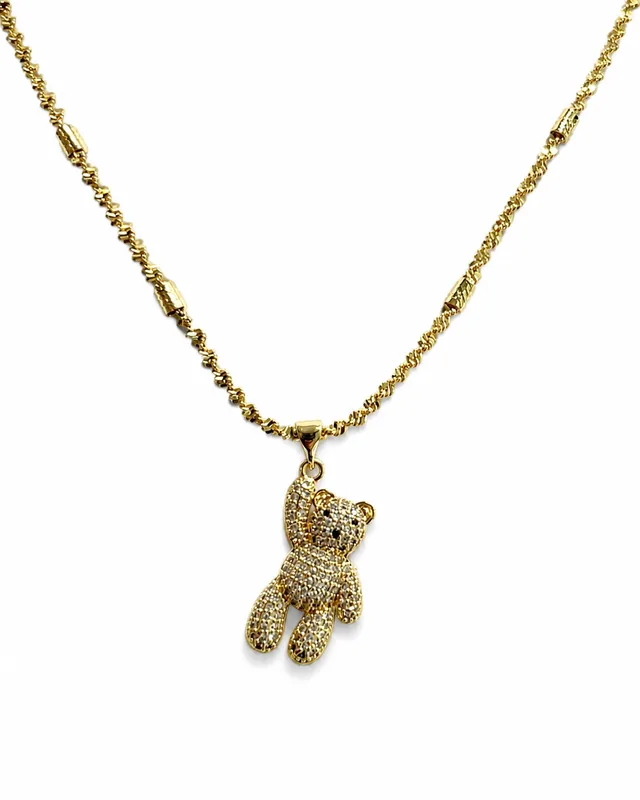
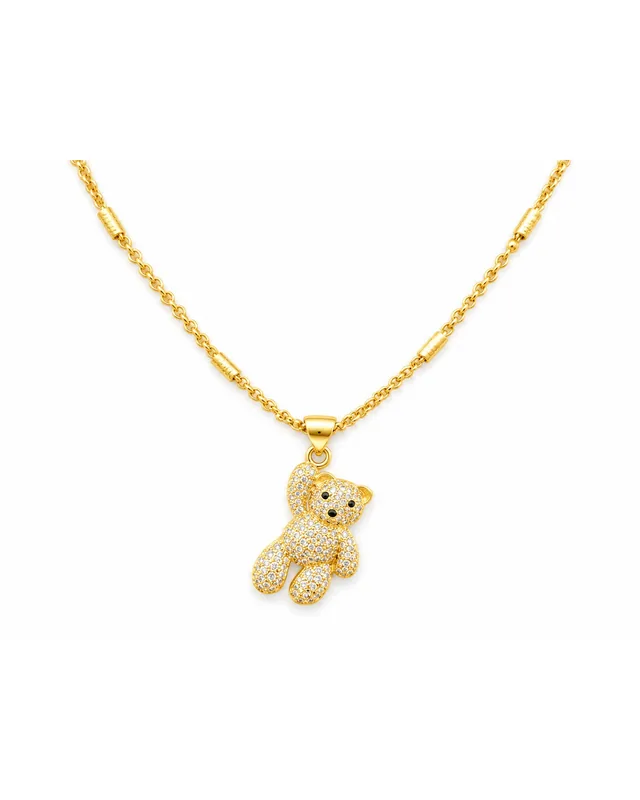
Reemplazo foto PU085 y CO013
Claude-Session: https://claude.ai/code/session_01LSAb27e8CDyU5GVf1hUJ6Z

Changed region(s): [[0.0, 0.0, 1.0, 0.8438]]

diff --git a/index.html b/index.html
@@ -223,7 +223,7 @@ header{border-bottom:1px solid rgba(255,255,255,.6)}
 
 <script>
 const DATA=[["AN001","Anillo Eslabones Ovales con Circones","AN",5000,6000,9500,1],["AN002","Anillo Triple Banda Entrelazada con Circones","AN",5000,7500,10500,1],["AN003","Anillo Ondas Entrelazadas con Circones","AN",5000,6500,8000,1],["AN004","Anillo Domo Acanalado","AN",5000,8000,12000,1],["AN005","Anillo Eslabones Anchos con Circones","AN",5000,6500,8000,1],["AN006","Anillo Clavo Tipo Cartier con Circones","AN",5000,6500,8000,1],["AN007","Anillo Doble Gota Orgánica","AN",5500,8500,12000,1],["AN008","Anillo Media Alianza con Circones","AN",6000,7500,10000,1],["AN009","Anillo Cuadrado Central con Circones","AN",5500,8500,12500,1],["AN010","Anillo Osito con Circones","AN",6000,7500,10000,1],["AN011","Anillo Domo con Bandas de Circones","AN",6000,7500,10000,1],["AN012","Anillo Clavo Doble con Circones","AN",6000,7500,10000,1],["AN013","Anillo Corona Dorada","AN",4500,5500,7000,1],["AN014","Anillo Corona Dorada Pequeña","AN",4500,5500,7000,0],["AN015","Anillo Media Alianza Doble con Circones","AN",6500,7500,10000,1],["AN016","Anillo Alianza Doble Borde con Circones","AN",6500,9000,13000,1],["AN017","Anillo Media Alianza Multilínea con Circones","AN",7500,9000,12000,1],["AN018","Anillo Eslabón Oval con Circones","AN",7500,9000,12000,1],["AN019","Anillo Cruces y Circones","AN",7500,10500,14500,1],["AN020","Anillo Domo Pavé con Circones","AN",7500,9000,12000,0],["AN021","Anillo Alianza Central con Circones","AN",7500,11500,15500,1],["AN022","Anillo Bandas Verticales","AN",7500,9000,12000,1],["AN023","Anillo Clavo Plateado con Circones","AN",7500,9000,12000,1],["AN024","Anillo Ondas Cruzadas","AN",7500,9000,12000,1],["AN025","Anillo Flor con Circones","AN",5500,7000,10000,1],["AN026","Anillo Doble con Estrella Colgante","AN",5500,7000,10000,1],["AN027","Anillo Ramas y Hojas con Circones","AN",7500,0,0,1],["AN028","Anillo Barra Pavé con Circones","AN",5500,0,0,1],["AN029","Anillo Corazón Volumen","AN",5000,6000,8000,1],["AN030","Anillo Hojas Cruzadas","AN",5500,0,0,1],["AN031","Anillo Cinta Ondulada","AN",5500,8500,12000,1],["AN032","Anillo Mariposa Dorada","AN",5500,6500,9000,1],["AN033","Anillo Domo Tejido con Circones","AN",6000,0,0,1],["AN034","Anillo Corazón Pavé con Circones","AN",6000,8500,12500,1],["AN035","Anillo Doble Banda Calada con Circones","AN",6000,0,0,1],["AN036","Anillo Domo Pavé Multifila","AN",6000,0,0,1],["AN037","Anillo Doble Punta con Circones","AN",6000,9500,13000,1],["AN038","Anillo Serpiente con Circones","AN",6000,0,0,1],["AN039","Anillo Doble Pluma con Circones","AN",6000,0,0,1],["AN040","Anillo Domo Multifila con Circones","AN",6500,10500,15000,1],["AN043","Anillo Hoja Calada","AN",7000,0,0,1],["AN044","Anillo Alianza Circones Multicolor","AN",5000,0,0,1],["AN045","Anillo Alianza Circones Rosados","AN",5000,0,0,1],["AN046","Anillo Alianza Circones Rosa y Lila","AN",5000,0,0,1],["AN047","Anillo Ondas Caladas","AN",5000,0,0,1],["AN048","Anillo Domo Acanalado con Circones","AN",5000,7500,10500,1],["AN049","Anillo Doble Óvalo Orgánico","AN",5500,0,0,1],["AN050","Anillo Infinito con Circones","AN",5000,0,0,1],["AN051","Anillo Cruz con Circones","AN",5500,6500,9000,0],["AN052","Anillo Estrella de Mar y Perla","AN",6000,9000,13000,1],["AN053","Anillo Corazón Pavé","AN",6500,0,0,1],["AN054","Anillo Clavo Curvo con Circones","AN",6500,0,0,1],["AN055","Anillo Hojas Dobles con Circones","AN",5500,7000,10000,1],["AN056","Anillo Circon Central Verde","AN",5000,0,0,1],["AN057","Anillo Alianza Circones Transparentes","AN",5000,0,0,1],["AN058","","AN",4000,7500,12000,1],["AN059","","AN",4500,7500,12000,0],["AN060","","AN",5000,7000,10000,0],["AN061","","AN",5000,7000,10000,1],["AN062","","AN",5000,7000,10000,1],["AN063","","AN",5000,7000,10000,1],["AN064","Anillo Flor","AN",5000,8000,12000,1],["AN065","","AN",5500,8500,12500,0],["AN066","","AN",7000,10500,15000,1],["AN067","","AN",5000,7500,10500,1],["AN071","","AN",5500,7500,10500,1],["AN073","Anillo Gucci Plano","AN",5500,8000,10000,0],["AR001","Argollas Tipo Cartier Clavo","AR",5500,7500,10500,1],["AR002","Aros Corazón Dorado","AR",5500,7000,10000,1],["AR003","Aros Gota Alargada","AR",7500,9000,15000,1],["AR004","Aros Gota Alargada Bicolor","AR",7500,8500,12000,1],["AR005","Aros Bola Dorada","AR",7500,8500,12000,1],["AR006","Aros Corazón Rosado","AR",7500,8500,12000,1],["AR007","Aros Corazón Rojo Metálico","AR",7500,8500,12000,1],["AR008","Aros Argolla Circones Multicolor","AR",5500,7500,12000,1],["AR009","Aros Sol con Perla","AR",5000,6000,7500,1],["AR010","Aros Nudo Acanalado","AR",5500,7000,8500,1],["AR011","Aros Bola Texturada","AR",4000,5000,6500,1],["AR012","Aros Cuadrados Tejidos","AR",4000,8500,12500,1],["AR013","Aros Corazón Texturado","AR",5500,8500,12500,1],["AR014","Aros Gota Volumen","AR",5000,6500,10000,1],["AR015","Aros Corazón Pequeño","AR",4000,6000,7000,1],["AR016","Aros Corazón Mediano","AR",4500,6500,7500,1],["AR017","Aros Corazón Estilizado","AR",4500,6500,8000,1],["AR018","Aros Bola Texturada con Circones","AR",4500,6500,7500,1],["AR019","Aros Argolla Sol con Circones","AR",4500,7500,10500,0],["AR020","Aros Argolla Bicolor con Circones","AR",4000,5000,6000,1],["AR021","Aros Argolla Torcida","AR",5000,6500,10000,1],["AR022","Aros Argolla Texturada","AR",6500,8000,10000,0],["AR023","Aros Argolla Calada con Circones","AR",4000,5000,7000,1],["AR024","Argollas Tipo Cartier","AR",4000,5000,7000,1],["AR025","Aros Nudo Dorado","AR",5500,7000,9000,1],["AR026","Aros Mini Argolla Cuadrada","AR",5500,7000,9000,1],["AR027","Aros Mini Argolla Bicolor","AR",5500,7000,9000,1],["AR028","Aros Corazón Pavé Cuadrado","AR",7500,9000,12000,1],["AR029","Aros Mini Sol con Circones","AR",4500,6500,10000,0],["AR030","Aros Argolla Circones Rosados","AR",4000,5000,8000,1],["AR031","Aros Corazón con Circones","AR",3500,5500,10000,1],["AR032","Aros Argolla Ancha Lisa","AR",5500,7500,12000,1],["AR033","Aros Argolla Acanalada","AR",6000,0,0,1],["AR034","Aros Flor con Circones","AR",7000,8500,11000,1],["AR035","Aros Flor Rosada Colgante","AR",6600,0,0,0],["AR036","Aros Mini Argolla Lisa","AR",4500,7500,11500,0],["AR037","Aros Argolla Óvalo Calado","AR",4000,0,0,1],["AR038","Aros Argolla Tornillo","AR",4500,0,0,1],["AR039","Aros Espiga Doble","AR",5500,8500,12500,1],["AR040","Aros Osito","AR",5000,0,0,1],["AR041","Aros Argolla Circones Rosa y Azul","AR",4500,0,0,1],["AR042","Aros Argolla Texturada Mediana","AR",4500,7500,12000,0],["AR043","Aros Argolla Texturada Grande","AR",4500,0,0,1],["AR044","Aros Argolla Doble Fina","AR",5000,8500,12000,1],["AR045","Aros Argolla Multicolor Pequeña","AR",5800,8800,12800,1],["AR046","Aros Argolla Multicolor Mediana","AR",5800,8500,12000,1],["AR047","Aros Argolla Gota y Bola","AR",6000,8500,12000,1],["AR048","Aros Colgantes Perlas en Racimo","AR",4500,6000,10000,1],["AR049","Aros Cerezas Rojas Dobles","AR",4500,0,0,1],["AR050","Aros Argolla Doble Aro","AR",4500,0,0,1],["AR051","Aros Argolla Doble Aro Grande","AR",5500,0,0,1],["AR052","Aros Lazo Dorado","AR",4600,0,0,1],["AR053","Aros Corazón Negro","AR",4500,0,0,1],["AR054","Aros Argolla Gucci Plano","AR",5500,7500,10000,1],["AR055","Aros Elefante","AR",4000,5500,6500,1],["AR056","Aros Disco Redondo","AR",4000,0,0,1],["AR057","Aros Cuadrado Liso","AR",4000,0,0,1],["AR058","Aros Cerezas Rojas","AR",5000,6500,8000,1],["AR059","Aros Óvalo con Perla","AR",6300,7500,10000,1],["AR060","Aros Gota Plegada","AR",6000,8000,12000,1],["AR061","Aros Argolla Triple Lisa","AR",6800,7500,12000,1],["AR062","Aros Flor Pavé","AR",6600,0,0,1],["AR063","Aros Cerezas Largos","AR",5000,6500,9500,1],["AR064","Aros Cerezas Largos Finos","AR",5000,0,0,1],["AR065","Aros Argolla Multicolor","AR",5000,7500,12000,1],["AR066","Aros Corazón Nacarado","AR",5500,7500,10000,1],["AR067","Aros Flor Rosa","AR",5500,0,0,1],["AR068","Aros Argolla Multicolor Fina","AR",5500,7500,12000,0],["AR069","Aros Argolla Bolas Doradas","AR",6000,0,0,1],["AR070","Aros Argolla Bolas Doradas Medianas","AR",6000,0,0,1],["AR071","Aros Punto Gucci Peq.","AR",3000,5000,9000,1],["AR072","Aros Punto Gucci Med.","AR",4000,6000,10000,1],["AR073","Aros Argolla Bolitas","AR",6500,7500,13000,1],["AR074","Aros Argolla Corazones Calados","AR",4500,6500,10000,1],["AR075","","AR",4000,6000,10000,1],["AR076","","AR",4500,7500,12000,1],["AR077","Aros Corazón Dorado Pequeño","AR",5000,8000,12000,0],["AR078","","AR",4500,7500,12000,1],["AR080","","AR",4500,7500,12000,1],["AR081","","AR",4500,7500,12000,1],["AR082","","AR",4500,7500,12000,1],["AR083","","AR",4500,7500,12000,1],["AR084","","AR",4500,7500,12000,1],["AR085","","AR",4500,7500,12000,1],["AR086","","AR",5500,8500,13000,1],["AR087","","AR",4500,7500,12000,1],["AR088","","AR",4500,7500,12000,1],["AR089","","AR",5500,8500,13000,1],["AR090","","AR",5500,8500,13000,1],["AR092","","AR",5500,8500,13000,0],["AR093","","AR",5500,8500,13000,1],["AR095","","AR",4500,7500,12000,1],["AR096","","AR",4500,7500,12000,1],["AR108","Aros Argollas con Circones","AR",4500,6500,10000,1],["AR109","Aros Flor 3 Colores","AR",4500,6500,10000,1],["AR110","Aros Argollas Peq. con Circones","AR",4000,6000,8000,0],["AR111","Aros Corazon Rojo","AR",4500,6500,10000,1],["AR112","Aros con Perlas y Circones","AR",4500,6500,10000,0],["AR113","Aros Redondos con Circones","AR",4500,6500,10000,1],["AR114","Argollas Peq.","AR",4000,6000,8000,0],["AR115","Aros Balin 8mm Facetado","AR",4000,6000,10000,1],["AR116","Argollas Peq. con Circones 16mm","AR",4000,8000,10000,0],["CO001","Collar Corazón Volumen","CO",5500,9000,14000,1],["CO002","Collar Corazón Estilizado","CO",5500,7500,15000,1],["CO003","Collar Ají Rojo","CO",5500,8000,15000,1],["CO004","Collar Corazón Liso","CO",5500,7500,12000,1],["CO005","Collar Corazón Rojo","CO",7500,9000,13000,1],["CO006","Collar Cadena Corazones Calados","CO",7500,9000,13000,0],["CO007","Collar Cruz Clavo","CO",7500,8500,14000,1],["CO008","Collar Punto de Luz Rojo","CO",8000,9000,14000,1],["CO009","Collar Cruz Lisa","CO",8000,9000,14000,1],["CO010","Collar Cruz con Circones","CO",8000,9000,14000,1],["CO011","Collar Cerezas y Osito","CO",8000,9000,14000,1],["CO012","Collar Osito con Circones","CO",8500,9500,15000,1],["CO013","Collar Osito Dorado","CO",8500,13000,20000,1],["CO014","Collar Osito con Circones Azules","CO",8500,9500,15000,1],["CO015","Collar Flor y Aro","CO",10000,12000,18000,1],["CO016","Collar Cadena Eslabón Fino","CO",6500,7500,9000,1],["CO017","Collar Perlas con Dije Central","CO",5500,9000,15000,1],["CO018","Collar Perlas y Gota Nacarada","CO",5500,7500,12000,1],["CO019","Collar Cadena Corazones Negros","CO",6500,7500,14000,1],["CO020","Collar Charms Multicolor","CO",6500,10000,13500,1],["CO021","Collar Cadena Bolitas Doradas","CO",9000,11000,20000,1],["CO022","Collar Love con Perlas","CO",11000,13000,16000,1],["CO023","Collar Caracola","CO",13000,15000,20000,1],["CO024","Collar Cadena Tejido Chino 45cm + Extensor","CO",5000,7500,9000,1],["CO025","Collar Cruz Delgada","CO",5500,7500,15000,1],["CO026","Collar Cruz Rústica","CO",5500,7500,12000,1],["CO027","Collar Cerezas Rojas","CO",5500,7500,12000,1],["CO028","Collar Dije Niña","CO",7000,9000,15000,1],["CO029","Collar Dije Niño","CO",7000,9000,11000,1],["CO030","Collar Osito Pavé","CO",7000,9000,11000,1],["CO031","Collar Corazón Azul","CO",8000,9000,14000,1],["CO032","Collar Corazón Negro","CO",8000,9000,14000,1],["CO033","Collar Medalla Dr. José Gregorio Hernández","CO",6500,8500,16000,1],["CO034","Collar Mariposa","CO",8000,10000,14000,1],["CO035","Collar Cruz Rústica Grande","CO",9000,10000,14000,1],["CO036","Collar Flor Pavé","CO",11000,17000,25000,1],["CO037","Collar Corazón y Círculo Pavé","CO",11000,14000,20000,1],["CO038","Collar Corazón Liso Grande","CO",12000,15000,20000,0],["CO039","Collar Corazón Rojo Punto de Luz","CO",5500,7500,15000,1],["CO040","Collar Corazón Multicolor","CO",5500,7500,12000,1],["CO041","Collar Gota Verde y Perla","CO",5500,7500,12000,1],["CO042","Collar Conejo con Circones","CO",6500,8000,12000,1],["CO043","Collar Perla Colgante","CO",9000,11000,15000,1],["CO044","Collar Cadena Plana en V","CO",6500,7500,9000,1],["CO045","Collar Cadena Plana Curva","CO",6500,7500,9000,1],["CO046","Collar Osito Dorado Grande","CO",7500,9000,11000,1],["CO047","Collar Ojo Turco con Circones","CO",5500,10500,15000,1],["CO048","Collar Ají Rojo Largo","CO",5500,7500,15000,1],["CO049","Collar Llave con Corazón Rojo","CO",5500,7500,15000,1],["CO050","Collar Corazón Rojo Esmaltado","CO",5500,7500,15000,1],["CO051","Collar Fe","CO",5500,7500,15000,0],["CO053","Collar Candado y Llave","CO",6500,8500,16000,0],["CO056","Collar Cactus Multicolor","CO",8500,12000,16000,1],["CO057","Collar Langosta Roja","CO",8500,12000,16000,1],["CO058","Collar Corazón Rojo con Corona","CO",5500,7500,12000,1],["CO059","Collar Corazón Rojo con Lazo","CO",5500,7500,12000,1],["CO060","Collar Corazón Rojo con Alas","CO",5500,8500,15000,1],["CO061","Collar Corazón Rojo Pavé","CO",5500,7500,12000,1],["CO062","Collar Corazón Rojo Flecha","CO",5500,7500,12000,1],["CO063","Collar Cadena Eslabón con Corazón","CO",6500,7500,10000,1],["CO064","Collar Cerezas con Circones","CO",5500,7500,12000,1],["CO065","Collar Cerezas y Perla","CO",5500,7500,12000,1],["CO066","Collar Virgen con Circones","CO",7500,9000,13000,1],["CO067","Collar Rosario Virgen y Cruz","CO",11500,14000,18000,1],["CO068","Collar Perlas con Bolas Doradas","CO",11500,14000,20000,1],["CO069","Collar Corazón Rosado y Perlas","CO",11500,14000,20000,1],["CO070","Collar Corazón Rojo Doble","CO",11500,14000,20000,1],["CO071","Collar Charms Estrellas","CO",14500,18000,25000,1],["CO072","Collar Corazón Rojo y Cerezas","CO",14500,18000,25000,1],["CO073","Collar Charms Corazones Rojos","CO",20000,25000,35000,1],["CO075","Collar Cadena Eslabones Rectangulares","CO",6500,7500,10000,1],["CO076","Collar Cadena Tejido Diamante","CO",6500,10000,15000,1],["CO077","Collar Cadena Cubana Fina","CO",6500,7500,10000,1],["CO078","Collar Osito Pavé Grande","CO",7500,8500,14000,1],["CO079","Collar Osito Pavé Mediano","CO",7500,8500,14000,1],["CO080","Collar Flor Rosada con Flecha","CO",5500,7500,15000,1],["CO081","Collar Osito Dorado con Circones","CO",7500,8500,14000,1],["CO082","Collar Flor Rosa y Gota","CO",6500,8500,16000,0],["CO083","Collar Helado Rosado","CO",6500,0,0,1],["CO084","Collar Piña y Palmera","CO",6500,0,0,1],["CO085","Collar Flor Nacarada","CO",5500,7500,12000,1],["CO086","Collar Medalla y Flor","CO",8000,0,0,1],["CO087","Collar Sagrado Corazón","CO",5800,0,0,0],["CO088","Collar Dije Niña Pequeña","CO",6500,0,0,1],["CO089","Collar Corazón Nacarado","CO",6700,10500,15000,1],["CO090","Collar Cereza Verde","CO",6700,0,0,1],["CO091","Collar Ojo Turco con Circones","CO",8000,0,0,1],["CO092","Collar Charms Estrella y Corazón","CO",8000,0,0,1],["CO093","Collar Corazón y Estrella","CO",8000,0,0,1],["CO094","Collar Corazón Calado","CO",9900,0,0,1],["CO095","Collar Osito Calado","CO",9900,0,0,1],["CO096","Collar Perlas y Aros","CO",10500,16000,23500,1],["CO097","Collar Cadena Serpiente","CO",6500,8500,15000,1],["CO098","Collar Perlas Multicolor","CO",9500,12000,15000,1],["CO099","Collar Perlas Colgantes","CO",10500,0,0,1],["CO100","Collar Multicolor con Medalla","CO",13000,0,0,1],["CO101","Collar Multicolor con Mariposa","CO",13000,0,0,1],["CO102","Collar Perlas con Mariposa","CO",15000,0,0,1],["CO103","Collar Charms Flor y Estrella","CO",8500,13500,20000,0],["CO104","Collar Eslabones Rosados","CO",7500,0,0,1],["CO105","Collar Cereza y Flor","CO",5500,7500,12000,1],["CO106","Collar Flor Rosada Pavé","CO",6500,10000,15000,1],["CO107","Collar Doble Corazón Rojo","CO",6500,0,0,1],["CO108","Collar Medalla Rosada","CO",4700,0,0,1],["CO109","Collar Gema Azul","CO",4700,0,0,1],["CO110","Collar Gema Negra","CO",5000,0,0,1],["CO111","Collar Cerezas Rojas Dobles","CO",5500,8000,15000,1],["CO112","Collar Flor Pequeña","CO",7300,0,0,1],["CO113","Collar Corazón Contorno","CO",6500,8500,15000,1],["CO114","Collar Ojo Turco Redondo","CO",5500,0,0,1],["CO116","Collar Corazón Calado y Perlas","CO",15000,18000,20000,1],["CO117","Collar Corazón Contorno y Cadena","CO",17000,0,0,1],["CO118","Collar Charms Corazones Multicolor","CO",5500,0,0,1],["CO119","Collar Charms Multicolor con Osito","CO",7500,0,0,1],["CO120","Collar Perlas Multicolor con Corazón","CO",6500,9500,15000,1],["CO121","Collar Charms Multicolor con Medalla","CO",6500,0,0,1],["CO122","Collar Corazones Multicolor","CO",7500,0,0,1],["CO123","Collar Cruz Pequeña","CO",5000,7000,9000,1],["CO124","Collar Sagrado Corazon","CO",5500,7500,15000,1],["CO125","Collar Planeta con Circones","CO",6500,8000,15000,1],["CO126","Collar Libélula con Circones","CO",6500,0,0,1],["CO127","Collar Tortuga con Circones","CO",6500,9500,15000,1],["CO128","Collar Multicolor con Osito","CO",7000,0,0,1],["CO129","Collar Multicolor Delicado","CO",8500,12000,16500,1],["CO130","Collar Corazón Contorno y Charms","CO",9000,0,0,1],["CO131","Collar Multicolor con Corazón Rosa","CO",8500,0,0,1],["CO132","Collar Cerezas Rojas Laterales","CO",9500,0,0,1],["CO133","Collar Balines 3 Oros","CO",11500,13500,20000,1],["CO134","Collar Mariquita Roja","CO",6500,8000,15000,1],["CO135","Collar Estrella de Mar","CO",6500,0,0,1],["CO136","Collar Corazón Orgánico","CO",6500,0,0,1],["CO137","Cadena Gucci 50 y 55cm","CO",8500,13000,18000,1],["CO138","Collar Frutilla Roja","CO",5500,8500,15000,1],["CO139","","CO",5500,7500,15000,1],["CO140","Cadena con Dije Estrella de Mar","CO",5500,7500,15000,1],["CO141","","CO",6500,8500,15000,1],["CO142","","CO",6500,8500,15000,1],["CO143","","CO",6500,8500,15000,1],["CO144","","CO",8000,12000,17000,1],["CO145","Collar Mariposa Pequeña","CO",5500,7500,15000,1],["CO146","","CO",5500,7500,15000,1],["CO147","Collar Estrella de Mar con Perla","CO",5500,7500,15000,1],["CO148","","CO",5500,8500,15000,1],["CO149","Collar Luna","CO",5500,7500,15000,1],["CO150","","CO",6500,8500,15000,1],["CO151","","CO",6500,8500,15000,1],["CO152","","CO",5500,7500,15000,1],["CO153","Collar Corazon Inflado","CO",5500,7500,15000,1],["CO154","Collar Elefante","CO",5500,7500,15000,1],["CO155","Collar San Miguel Arcangel","CO",5500,7500,15000,1],["CO156","","CO",6500,8500,15000,1],["CO157","","CO",6500,8500,15000,1],["CO161","Collar Venezuela","CO",6500,8500,16000,0],["CO162","Collar I Love Venezuela","CO",6500,8500,16000,1],["CO163","Collar Mapa Venezuela","CO",6500,8500,16000,1],["CO167","Collar Luna Liso","CO",5500,7500,15000,1],["CO170","","CO",5000,7000,10000,1],["CO173","Collar Bandera Venezuela","CO",6500,8500,16000,0],["CO174","Collar Avion Camara Viaje","CO",6500,8500,16000,1],["CO175","Cadena Grumet 45cm con Dije San Miguel Arcángel","CO",7500,9500,16000,1],["CO182","Cadenas de Hombre 60cm con Dije Cristo","CO",8500,13000,18000,1],["CO183","Cadena Colombia","CO",6500,8500,15000,1],["CO184","Cadena Tipo Cartier con Dije Saco de Dinero 50cm","CO",6500,8500,15000,1],["CO185","Cadena Cruz de Venezuela Fe","CO",6500,8500,15000,1],["CO186","Cadena Tejido Chino 50cm Ojo Turco + Rosca + Turca + Billete","CO",9900,15000,20000,0],["CO188","Cadena Tejido Chino 55cm + Dije San Benito Hombre","CO",8500,13500,18500,1],["CO189","Collar Mapa Venezuela Tricolor Corazon","CO",5500,7500,15000,0],["CO190","Collar Colgante Pez","CO",6500,8500,16000,1],["CO191","Collar Venezuela con Circones","CO",6500,12000,16000,1],["CO192","Cadena con Dije Dios","CO",6500,9500,16000,1],["CO193","Cadena con Dije Redondo Cruz","CO",6500,9500,16000,1],["CO196","Cadena Gucci 55cm Dije Rolex","CO",10000,15000,20000,1],["CO197","Cadena Gucci 55cm Dije Cruz","CO",10000,15000,20000,1],["CO198","Cadena Tejido Chino 50cm + Dije VC","CO",7500,9500,16000,1],["CO199","Cadena Tejido Chino 50cm + Dije Virgen María","CO",7500,12500,18000,1],["CO999","Collar Chamina","CO",6500,10000,15000,1],["PU001","Pulsera Cadena Corazones","PU",8500,10000,14000,0],["PU002","Pulsera Bolas Tricolor","PU",5000,6000,8000,1],["PU003","Pulsera Bolas Doradas Texturadas","PU",6000,10500,14500,1],["PU004","Pulsera Bolas Bicolor","PU",6000,7500,10000,1],["PU005","Pulsera Bolas y Perlas con Aro","PU",7000,10500,15000,1],["PU006","Pulsera Bolas Bicolor Grandes","PU",9000,10000,13000,1],["PU007","Pulsera Perlas y Bolas Doradas","PU",9000,13000,18000,1],["PU008","Pulsera Perlas con Estrella y Medalla","PU",9000,10000,13000,1],["PU009","Pulsera Corazón Nacarado","PU",7500,12500,17000,1],["PU010","Pulsera Doble Tubo con Circones","PU",4000,5000,6500,1],["PU011","Pulsera Bolas Tricolor Pequeñas","PU",7500,10500,15000,1],["PU012","Pulsera Bolitas Doradas","PU",7000,9000,15000,0],["PU013","Pulsera Bolas con Charms","PU",7000,9000,15000,1],["PU014","Pulsera Eslabones con Ojo Turco","PU",8000,10000,13000,1],["PU015","Pulsera Hilo Rojo con Medalla","PU",6000,8000,12000,1],["PU016","Pulsera Rígida Clavo","PU",15000,18000,25000,1],["PU017","Pulsera Eslabones Trenzados Ancha","PU",8000,9000,13000,1],["PU018","Pulsera Eslabones Trenzados Fina","PU",10500,13000,17000,1],["PU019","Pulsera Love Bicolor","PU",11000,13000,20000,1],["PU020","Pulsera Rígida con Charms","PU",11500,14000,18000,1],["PU021","Pulsera Eslabones Rectangulares","PU",6500,8000,15000,1],["PU022","Pulsera Perlas y Cadena","PU",6500,10500,15500,1],["PU023","Pulsera Cadena Fina con Dije","PU",7000,8500,13000,1],["PU024","Pulsera Cadena Fina con Mano","PU",7000,8500,13000,1],["PU025","Pulsera Tipo Pandora","PU",6500,9500,13000,0],["PU026","Pulsera Cadena con Medalla Espiral","PU",8000,10000,14000,1],["PU027","Pulsera Cadena con Medalla Corazón","PU",8000,10000,14000,1],["PU028","Pulsera Cadena con Corazón Calado","PU",9000,10000,15000,1],["PU029","Pulsera Cadena Eslabón y Aro","PU",9000,10000,15000,1],["PU030","Pulsera Bolas Doradas","PU",7000,9000,15000,1],["PU031","Pulsera Bolas con Corazón","PU",9500,11000,15000,0],["PU032","Pulsera Charms Estrellas","PU",10500,13500,18000,1],["PU033","Pulsera Bolas Rojas con Cerezas","PU",10500,13500,18000,1],["PU034","Pulsera Cadena con Corazón Rojo","PU",12000,14000,20000,1],["PU035","Pulsera Cerezas y Corazón Rojo","PU",14000,16000,22000,1],["PU036","Pulsera Corazón Rojo Colgante","PU",15000,18000,26000,1],["PU038","Pulsera Rígida Media Barra","PU",15000,18000,22500,1],["PU039","Pulsera Hilo Azul con Bandera Venezuela y Doctor JGH","PU",7000,8000,14000,1],["PU040","Pulsera Doble Eslabón con Dije","PU",9500,13000,16000,1],["PU041","Pulsera Eslabón Ancho","PU",13000,16500,25000,1],["PU042","Pulsera Eslabón Rectangular Plana","PU",4500,6000,10000,1],["PU043","Pulsera Bolas con Osito","PU",7500,8500,12000,1],["PU044","Pulsera Bolas con Osito y Corazón","PU",7500,9000,13000,1],["PU045","Pulsera Bolas con Niña","PU",8000,9000,13000,1],["PU046","Pulsera Bolas Rojas con Niña","PU",8000,9000,13000,1],["PU047","Pulsera Hilo Negro con Balines","PU",5000,7000,12000,0],["PU048","Pulsera Bolas Multicolor con Bandera Venezuela","PU",7000,9000,14000,0],["PU049","Pulsera Venezuela","PU",7000,8000,14000,1],["PU050","Pulsera Perlas con Corazón y Medalla","PU",7500,8500,14500,1],["PU051","Pulsera Perlas con Estrella","PU",6000,7000,11500,0],["PU052","Pulsera Hilo Azul con Bolas Doradas","PU",6000,8000,12000,0],["PU053","Pulsera Osito","PU",6000,9500,12000,1],["PU054","Pulsera Bolas con Corazón Rojo","PU",12000,14000,18000,1],["PU055","Pulsera Bolas con Charms Dorados","PU",13000,15000,20000,1],["PU056","Pulsera Cadena Corazones Pequeños","PU",5500,0,0,1],["PU057","Pulsera Perlas Blancas y Grises Fe","PU",6000,8500,12000,0],["PU058","Pulsera Perlas Blancas con Dije Pequeño","PU",6200,7500,10000,1],["PU059","Pulsera Perlas con Charms Multicolor","PU",6700,0,0,1],["PU060","Pulsera Perlas Bicolor con Flor","PU",7000,0,0,1],["PU061","Pulsera Bolas Bicolor con Corazón","PU",7500,0,0,0],["PU062","Pulsera Bolas Bicolor con Cisne","PU",8000,0,0,1],["PU063","Pulsera Cadena con Estrellas","PU",8500,0,0,1],["PU064","Pulsera Hilo Negro Multicolor","PU",5500,6500,8500,1],["PU065","Pulsera Hilo Rojo con Cadena Dorada","PU",5000,6500,8000,0],["PU066","Pulsera Hilo Negro con Cadena Dorada","PU",5000,6500,8000,1],["PU067","Pulsera Hilo Rojo Multicolor","PU",5000,6500,8000,1],["PU068","Pulsera Eslabones Multicolor","PU",5500,7500,12500,1],["PU069","Pulsera Doble Cadena Delicada","PU",6300,0,0,1],["PU070","Pulsera Bolas Multicolor Pastel","PU",6000,8000,12000,1],["PU071","Pulsera Perlas con Charms Dorados","PU",6300,10000,14000,1],["PU072","Pulsera Corazones Rojos","PU",6300,7500,10000,1],["PU073","Pulsera Cadena con Bolitas","PU",7200,0,0,1],["PU074","Pulsera Rígida con Charms Multicolor","PU",17000,0,0,1],["PU075","Pulsera Rígida con Charms Frutales","PU",17000,0,0,1],["PU076","Pulsera Cono y Cerezas","PU",5500,8500,13500,1],["PU077","Pulsera Perlas con Corazón","PU",5800,7500,12000,1],["PU078","Pulsera Corazones Multicolor Grandes","PU",6300,10500,15000,1],["PU079","Pulsera Cadena Rectangular Fina","PU",6400,9500,14000,1],["PU080","Pulsera Multicolor Pastel","PU",7500,10500,15000,1],["PU081","Pulsera Cadena con Circones Multicolor","PU",7200,8000,13000,1],["PU082","Pulsera Cadena con Circones Rosados","PU",7200,8000,13000,1],["PU083","Pulsera Cadena Dorada Delicada","PU",7200,0,0,1],["PU084","Pulsera Cadena Cubana Fina","PU",5500,7000,12000,1],["PU085","Pulsera Hilo Negro Tipo Rolex","PU",7000,9500,12500,1],["PU086","Pulsera Hilo Negro con Medalla Alargada","PU",7000,0,0,1],["PU087","Pulsera Tipo Gucci","PU",5500,8000,12000,1],["PU088","Pulsera Estrellas Multicolor","PU",7000,0,0,1],["PU089","Pulsera Estrellas Multicolor Dorada","PU",5500,0,0,1],["PU090","Pulsera Estrellas Multicolor con Charms","PU",5500,10500,13500,1],["PU091","Pulsera Corazones Pastel","PU",5500,6500,11000,1],["PU092","Pulsera Triple Cadena Dorada","PU",7000,8500,14000,1],["PU093","Pulsera Hilo Rojo con Corazón","PU",5500,9500,13500,0],["PU094","Pulsera Ojos Turcos Azules","PU",6500,8000,12000,1],["PU095","Pulsera Rígida Love","PU",12000,0,0,1],["PU096","Pulsera Rígida Clavo Dorada","PU",14500,0,0,1],["PU097","","PU",4500,7500,10000,1],["PU098","","PU",4500,7500,10000,1],["PU099","","PU",6000,9500,13000,1],["PU100","","PU",7000,10500,15000,1],["PU101","","PU",7000,10500,15000,1],["PU102","","PU",7000,10500,15000,1],["PU103","","PU",6500,10000,13000,1],["PU104","","PU",6300,9000,12000,0],["PU105","","PU",6500,8500,15000,1],["PU106","","PU",5500,9000,13500,1],["PU107","","PU",5500,9000,13500,1],["PU108","","PU",5500,9000,13500,1],["PU109","","PU",5500,9000,13500,1],["PU110","","PU",6500,10500,15500,1],["PU111","","PU",6000,10000,14000,1],["PU112","Pulsera Avion Tricolor","PU",7000,9000,14000,1],["PU113","Pulsera Dios Tricolor","PU",7500,9000,15000,1],["PU122","Pulsera Roja San Benito","PU",7500,9000,15000,1],["PU123","Pulsera Tejido Rojo + Gucci","PU",5500,8500,12500,1],["PU124","Pulsera Hombre","PU",6500,9500,12000,1],["PU125","Pulsera Hombre Balines Facetados","PU",8000,10000,15000,1],["PU126","Pulsera San Benito Rojo o Negro Tina","PU",6500,9500,12000,0],["PU127","Pulso Hombre 19cm","PU",6000,8500,12000,0],["CO200","Cadena Tipo Gucci Hombre 6mm 60cm","CO",10000,16500,20000,1],["PU128","Pulsera Tipo Gucci 6mm 17+3cm","PU",5000,8000,10000,1],["CO201","Cadena Tipo Cubana 3.5mm 45cm + Dije Virgen María","CO",5500,10500,15000,1],["CO202","Cadena Cubana con Broche Tipo Caja 6mm 55cm","CO",15000,20500,25000,1],["CO203","Cadena 45cm con Dije San Miguel Arcángel + Rosca Ojo Turco","CO",8500,13000,18000,1],["CO204","Cadena 45cm con Dije de Cuerno Rojo + Rosca Ojo Turco","CO",8300,13000,18000,1],["CO205","Cadena 45cm con Dije Virgen Chiquinquirá","CO",7500,12500,18000,1],["PU132","Pulsera Eslabon Grande Tipo Gucci","PU",7500,10500,13500,1],["PU133","Pulsera de Balines con Estrella","PU",5500,8500,10500,1],["PU135","Pulsera 3 Corazones","PU",7500,10500,13500,1],["PU134","Pulsera de Balines con Corazon","PU",5500,8500,10500,1],["PU131","Pulsera Tejida Doble Fila de Balines","PU",7500,9500,12000,1],["CO206","Cadena con Dije Cruz Lisa","CO",5500,10000,12000,1],["CO207","Cadena con Dije Love Circones","CO",5500,12000,15000,1],["CO208","Cadena Dije Veneka 58","CO",8500,13000,18000,1],["CO212","Cadena con Dije de Corazon","CO",6500,12500,16000,1],["CO209","Cadena Dije Cruz + San Miguel Arcangel","CO",6500,12500,16000,1],["CO210","Cadena Dije Cruz Jesus","CO",7000,13000,17000,1],["CO211","Cadena Dije Osito","CO",7000,13000,17000,1]];
-const IV={"CO200":"5411ee","PU128":"d650f1","CO197":"75903c","CO196":"c1c4df","CO175":"2c6da4","PU041":"6e3952","CO125":"957f4f","AN012":"220a87","CO120":"8410c9","CO163":"d407ae","PU005":"61fc15","CO040":"59bbe0","CO114":"5cc5f2","CO124":"cb98c0","CO141":"cb4c23","AN040":"8786e9","AN033":"57230b","PU089":"5e6c3f","CO010":"683966","AN048":"c0c62b","AN017":"a74db5","CO146":"ad5dad","CO151":"0b4316","AR065":"6d4634","AN010":"5e6e2b","CO012":"c584d0","AN052":"7c4bc0","AN071":"3c40d1","AR087":"c86695","CO188":"1793a8","PU126":"1ba74f","CO079":"eb27fe","AR089":"e58508","AN001":"03c81d","AN026":"5b1cdc","CO059":"5982d3","AR022":"86e5b3","CO064":"792056","CO088":"ccd1f8","AR091":"7a178f","PU032":"04779d","AR072":"397902","CO033":"5a9b80","AN044":"857518","AR061":"8baf86","AR066":"fed8c9","CO086":"f2f464","CO068":"00e746","CO145":"d906db","AN060":"f457a8","AR116":"2e9f43","CO027":"c5e501","CO076":"89ccaa","PU020":"9d33a8","CO167":"2c1de9","CO095":"440014","AR028":"9f10ae","PU033":"514ead","AR027":"cb4c92","PU088":"0117f9","AR063":"70be62","AR080":"5422e8","CO162":"6f4a7b","CO121":"ebda40","AR076":"a503c8","AR078":"80a81d","AR052":"0f7246","AR008":"21c041","AN022":"0a1574","AR075":"90b387","AN023":"d23370","AR114":"ebda27","CO069":"01fd18","PU071":"3754aa","PU006":"5d48a3","AN027":"2e7f2d","AN018":"2f26d6","AR011":"d76168","CO073":"0e7d98","AR014":"d04e34","CO106":"bd827f","PU067":"82ba44","AR069":"7422d2","AR085":"6d6557","PU009":"d1d9de","AR003":"db8ebf","AR012":"83fa35","CO070":"efe05e","AN034":"6a5c76","AR057":"455f4f","PU022":"80d01e","CO043":"bfd0ec","PU105":"c8bc03","CO037":"c892ce","CO174":"f2cb34","AR009":"993611","CO087":"551042","PU098":"696909","AR090":"e688ce","CO098":"c5be7a","PU081":"bf4cb1","AR013":"f31169","CO190":"281d3e","AN006":"e6a6dd","CO128":"2cdeb5","AN004":"6792fd","AN069":"4b52e5","PU026":"78f782","PU078":"36c865","AN029":"662bf5","CO062":"627a0b","CO198":"e24e8c","CO096":"962f3e","PU097":"0972f8","AN070":"a60fcf","AN073":"84f64c","AR050":"679779","PU113":"9dc0b2","AN058":"58cbe5","CO048":"2daf9d","CO020":"09ad3f","CO056":"f9f379","AR042":"d7aa22","PU047":"6900cf","PU004":"bca263","CO118":"d1bad2","AR037":"9db63e","AN061":"4f7826","PU092":"a0981b","PU019":"c3e5b5","PU099":"458737","AR070":"97d91c","PU100":"b3367c","PU059":"3b1d35","AR093":"f4677d","AN036":"796fac","CO183":"18672d","CO153":"56791f","AN051":"f0cb6f","PU061":"4ad1a1","AR018":"0c97e8","AR004":"b22a29","CO075":"df38e9","PU057":"ff5a24","CO005":"59f256","AN064":"47a6d8","CO111":"0e4378","AN047":"03719a","CO091":"248a25","PU058":"4d1d57","AR038":"ed3f90","PU075":"7c0ba1","CO034":"d19039","PU054":"c84994","CO142":"586c9f","AR108":"0dfb32","AR045":"580f42","CO108":"eadd09","CO132":"de6213","PU080":"eef9f1","AR079":"e7dfe1","CO045":"5e0e74","PU015":"4b8339","CO078":"dbf391","CO103":"af9312","AR073":"f9ac41","CO007":"94b0b3","PU085":"8606e4","CO089":"07675e","CO107":"827667","PU102":"c15fab","PU046":"265e73","AR088":"c42e23","PU014":"298b68","AR086":"dcf3f7","AN009":"7ed60b","CO184":"de70d1","PU029":"6ab38d","CO113":"658c53","AN043":"6acf45","AR020":"cc1d16","CO053":"b27cd3","AN035":"f40eeb","CO021":"337322","CO026":"6442fa","CO029":"ee5d25","AN032":"7e14ee","CO066":"bfce82","CO189":"fadd72","PU111":"1c5fcd","AN015":"5d1315","PU055":"95f14e","CO131":"2df47d","AR044":"dc2ddb","PU072":"12f458","CO191":"93ce26","PU110":"85eed1","PU001":"7f9c2d","CO129":"aa9712","CO102":"92bb88","AR015":"f888a8","PU016":"7fd660","CO047":"53e893","CO135":"36e54c","PU084":"20ac46","CO002":"d5ad94","CO050":"feb2dc","CO008":"9f55f2","CO192":"f281af","AN066":"113d4a","CO031":"d30f5d","AR112":"2a2b92","CO071":"826ad4","CO097":"f9746a","PU108":"fb9acc","CO137":"57905b","AR035":"cd7634","PU036":"98a1b7","CO149":"4d3720","CO099":"d6ef8b","PU127":"9bf69f","AR025":"42d00d","PU187":"1ad3fc","PU023":"8ca9a9","PU003":"977491","CO039":"805438","PU017":"91b283","CO044":"90412f","AR019":"b85368","CO018":"3e02e9","PU034":"c2d194","PU074":"fb2262","AR082":"d37db7","CO080":"277ea1","AN067":"a2ed6e","AN045":"bbf34b","PU011":"d4d0fa","AN039":"c1dada","CO057":"e10c81","PU107":"095aaa","CO016":"05dfa2","AN002":"a966e4","PU124":"f19477","CO032":"614ab4","CO143":"c2a766","AN054":"cc9fc2","CO130":"12d576","AN056":"9c4b4e","CO041":"448251","AR058":"80fcd7","PU021":"12b1ac","CO100":"c30d0b","PU082":"7b36a8","PU065":"8bd3d7","AR113":"fa0e9c","PU030":"f9345b","CO028":"e54b94","CO082":"623307","AN031":"a8551d","PU091":"b022ef","PU079":"1abc99","AR046":"1f8d08","PU125":"8799fd","CO123":"d0c373","AN020":"44bd0e","PU064":"559de7","AR002":"db7a86","CO077":"64d2fb","CO122":"973953","PU008":"fc656e","CO186":"3aec0a","AN007":"aff00d","PU077":"b7ed00","CO185":"e69ce8","PU012":"436fb6","PU109":"822c75","PU013":"b3db65","CO067":"1c2585","PU045":"861ff4","AR083":"0093a4","AR033":"36fd23","CO136":"20c4d9","AR074":"e2d591","CO036":"ae5833","AN014":"3ce6e8","AR017":"be5677","CO046":"a390fe","CO025":"0c1420","AR055":"5430dd","CO085":"de97ba","CO999":"6e0faf","AR077":"1907d6","CO014":"77b13d","PU123":"b41c62","CO117":"025f94","CO084":"34cbbc","AN057":"eaa33a","PU053":"4a6c1f","CO038":"ea115c","AR023":"d8c161","AN011":"16e90b","PU028":"35a78b","CO023":"baa4f1","CO024":"2d78cf","PU018":"52e937","AR062":"ff2541","CO161":"257ff2","CO144":"af3d68","CO030":"cc991b","AR007":"3f3d71","CO152":"0b18a6","CO119":"53f9af","AR043":"52c1f4","AN063":"c1a599","AR067":"097f29","AR049":"502505","PU063":"ebbe3e","AR021":"baf183","AR036":"fc2c53","CO019":"c34fd5","CO105":"9edb16","AR054":"714015","CO092":"ac4b26","AR096":"82cdfc","AR047":"22939e","AN008":"d0c823","PU093":"01b067","PU104":"464d88","AR068":"eeb404","CO022":"e5001c","PU035":"618d1b","CO011":"0f0e9b","AR041":"624bb8","CO104":"fe2df2","AN005":"8bee1c","PU066":"fff615","CO157":"7ffdac","CO193":"aa8c5a","AN049":"c9d41e","AR024":"10db56","CO139":"88dbdf","CO093":"4723fb","PU051":"1097d3","PU002":"c27006","AN019":"d44237","AR095":"afa875","PU050":"596b6e","AR115":"89990b","CO156":"eb2832","PU052":"aa6c51","CO009":"a3b68b","CO017":"3aefe6","PU073":"91d86c","CO155":"4ad7c4","CO015":"c49b86","PU007":"6fb989","AR040":"f1f14d","PU049":"737fb7","AR005":"d3cb3f","CO110":"65723c","PU024":"7bf423","PU076":"a05dbf","AN024":"a71ccb","AR059":"7c073e","CO199":"8c3277","PU106":"a5680e","PU043":"780c17","AR071":"d34bd1","CO134":"d17475","AR029":"a1c74d","AR056":"ced2ff","CO003":"21ffaa","AN065":"0764d9","CO094":"bb9bfd","CO083":"cf3c94","AR048":"6ce663","CO061":"8edf31","AR084":"4b3da6","PU056":"aacfe3","AR081":"c12b85","AN046":"1a685a","CO147":"e15728","CO035":"a0e880","AN050":"4473d2","PU069":"25708a","PU090":"8d5039","PU031":"825489","CO109":"7bf4b0","AN030":"a80064","PU060":"1604d7","CO150":"0a0897","PU122":"3a71e5","CO063":"7c48c8","CO051":"cb800c","PU068":"638b06","AR109":"5deb61","AR030":"28eb91","CO154":"f1c098","PU042":"08fffa","PU087":"6ffd28","AR094":"d34c77","INS130":"e87a72","AR001":"d3ae77","CO127":"292fbb","AN003":"d4e548","CO101":"50e850","AN038":"a92a6f","PU044":"b8ce9e","CO058":"a8fef3","CO173":"61f021","CO072":"64485b","PU094":"645c74","AR060":"624707","CO140":"24a3de","AR031":"0cef9c","AN016":"72e83d","CO004":"9c9697","CO126":"ee18a3","PU083":"65dd8b","AR051":"d60c1f","CO138":"110cce","PU048":"a83960","PU025":"9c2ed5","AR092":"1a2fd7","PU038":"640c29","AR111":"08b848","CO090":"c1addb","CO182":"56df4a","PU112":"360766","AN037":"4c12c5","CO148":"a312f2","CO049":"8900e5","AR016":"29624c","AR039":"8c4921","PU070":"d302e3","CO081":"6b433a","AN055":"401b4c","CO001":"ceb919","AR034":"d0bff9","PU086":"5fca78","AN059":"5537c1","PU027":"d1b668","PU040":"c39cad","PU103":"7c2c37","CO133":"f6c367","CO060":"6e0592","PU095":"426b50","CO115":"7b2f66","AR006":"bbc742","AR053":"c8499d","AN021":"ccf01f","AN053":"6a35e5","AN068":"6ba69d","CO170":"00103a","AN028":"b4b968","PU096":"e53464","AR010":"b90059","AR026":"dd3d13","CO116":"871ead","CO065":"b2f021","CO112":"1f2524","AR110":"9afec9","CO042":"7fe84f","PU062":"150b44","PU010":"9763e4","CO006":"420b13","CO013":"954bc6","PU101":"392cf5","AR032":"f4d92d","AN025":"712b88","AN013":"630062","AR064":"c4c6d8","PU039":"869c9d","AN062":"524eda","CO201":"9b9b5c","CO202":"b1c247","CO203":"8d2563","CO204":"131aa4","CO205":"a48adf","PU132":"86440b","PU133":"fabc6b","PU135":"6c94af","PU134":"bedd6e","PU131":"cb1865","CO206":"1f8d9e","CO207":"84f9ff","CO208":"164c25","CO212":"f41449","CO209":"71753f","CO210":"c0e425","CO211":"43f282"};
+const IV={"CO200":"5411ee","PU128":"d650f1","CO197":"75903c","CO196":"c1c4df","CO175":"2c6da4","PU041":"6e3952","CO125":"957f4f","AN012":"220a87","CO120":"8410c9","CO163":"d407ae","PU005":"61fc15","CO040":"59bbe0","CO114":"5cc5f2","CO124":"cb98c0","CO141":"cb4c23","AN040":"8786e9","AN033":"57230b","PU089":"5e6c3f","CO010":"683966","AN048":"c0c62b","AN017":"a74db5","CO146":"ad5dad","CO151":"0b4316","AR065":"6d4634","AN010":"5e6e2b","CO012":"c584d0","AN052":"7c4bc0","AN071":"3c40d1","AR087":"c86695","CO188":"1793a8","PU126":"1ba74f","CO079":"eb27fe","AR089":"e58508","AN001":"03c81d","AN026":"5b1cdc","CO059":"5982d3","AR022":"86e5b3","CO064":"792056","CO088":"ccd1f8","AR091":"7a178f","PU032":"04779d","AR072":"397902","CO033":"5a9b80","AN044":"857518","AR061":"8baf86","AR066":"fed8c9","CO086":"f2f464","CO068":"00e746","CO145":"d906db","AN060":"f457a8","AR116":"2e9f43","CO027":"c5e501","CO076":"89ccaa","PU020":"9d33a8","CO167":"2c1de9","CO095":"440014","AR028":"9f10ae","PU033":"514ead","AR027":"cb4c92","PU088":"0117f9","AR063":"70be62","AR080":"5422e8","CO162":"6f4a7b","CO121":"ebda40","AR076":"a503c8","AR078":"80a81d","AR052":"0f7246","AR008":"21c041","AN022":"0a1574","AR075":"90b387","AN023":"d23370","AR114":"ebda27","CO069":"01fd18","PU071":"3754aa","PU006":"5d48a3","AN027":"2e7f2d","AN018":"2f26d6","AR011":"d76168","CO073":"0e7d98","AR014":"d04e34","CO106":"bd827f","PU067":"82ba44","AR069":"7422d2","AR085":"6d6557","PU009":"d1d9de","AR003":"db8ebf","AR012":"83fa35","CO070":"efe05e","AN034":"6a5c76","AR057":"455f4f","PU022":"80d01e","CO043":"bfd0ec","PU105":"c8bc03","CO037":"c892ce","CO174":"f2cb34","AR009":"993611","CO087":"551042","PU098":"696909","AR090":"e688ce","CO098":"c5be7a","PU081":"bf4cb1","AR013":"f31169","CO190":"281d3e","AN006":"e6a6dd","CO128":"2cdeb5","AN004":"6792fd","AN069":"4b52e5","PU026":"78f782","PU078":"36c865","AN029":"662bf5","CO062":"627a0b","CO198":"e24e8c","CO096":"962f3e","PU097":"0972f8","AN070":"a60fcf","AN073":"84f64c","AR050":"679779","PU113":"9dc0b2","AN058":"58cbe5","CO048":"2daf9d","CO020":"09ad3f","CO056":"f9f379","AR042":"d7aa22","PU047":"6900cf","PU004":"bca263","CO118":"d1bad2","AR037":"9db63e","AN061":"4f7826","PU092":"a0981b","PU019":"c3e5b5","PU099":"458737","AR070":"97d91c","PU100":"b3367c","PU059":"3b1d35","AR093":"f4677d","AN036":"796fac","CO183":"18672d","CO153":"56791f","AN051":"f0cb6f","PU061":"4ad1a1","AR018":"0c97e8","AR004":"b22a29","CO075":"df38e9","PU057":"ff5a24","CO005":"59f256","AN064":"47a6d8","CO111":"0e4378","AN047":"03719a","CO091":"248a25","PU058":"4d1d57","AR038":"ed3f90","PU075":"7c0ba1","CO034":"d19039","PU054":"c84994","CO142":"586c9f","AR108":"0dfb32","AR045":"580f42","CO108":"eadd09","CO132":"de6213","PU080":"eef9f1","AR079":"e7dfe1","CO045":"5e0e74","PU015":"4b8339","CO078":"dbf391","CO103":"af9312","AR073":"f9ac41","CO007":"94b0b3","PU085":"75f0d8","CO089":"07675e","CO107":"827667","PU102":"c15fab","PU046":"265e73","AR088":"c42e23","PU014":"298b68","AR086":"dcf3f7","AN009":"7ed60b","CO184":"de70d1","PU029":"6ab38d","CO113":"658c53","AN043":"6acf45","AR020":"cc1d16","CO053":"b27cd3","AN035":"f40eeb","CO021":"337322","CO026":"6442fa","CO029":"ee5d25","AN032":"7e14ee","CO066":"bfce82","CO189":"fadd72","PU111":"1c5fcd","AN015":"5d1315","PU055":"95f14e","CO131":"2df47d","AR044":"dc2ddb","PU072":"12f458","CO191":"93ce26","PU110":"85eed1","PU001":"7f9c2d","CO129":"aa9712","CO102":"92bb88","AR015":"f888a8","PU016":"7fd660","CO047":"53e893","CO135":"36e54c","PU084":"20ac46","CO002":"d5ad94","CO050":"feb2dc","CO008":"9f55f2","CO192":"f281af","AN066":"113d4a","CO031":"d30f5d","AR112":"2a2b92","CO071":"826ad4","CO097":"f9746a","PU108":"fb9acc","CO137":"57905b","AR035":"cd7634","PU036":"98a1b7","CO149":"4d3720","CO099":"d6ef8b","PU127":"9bf69f","AR025":"42d00d","PU187":"1ad3fc","PU023":"8ca9a9","PU003":"977491","CO039":"805438","PU017":"91b283","CO044":"90412f","AR019":"b85368","CO018":"3e02e9","PU034":"c2d194","PU074":"fb2262","AR082":"d37db7","CO080":"277ea1","AN067":"a2ed6e","AN045":"bbf34b","PU011":"d4d0fa","AN039":"c1dada","CO057":"e10c81","PU107":"095aaa","CO016":"05dfa2","AN002":"a966e4","PU124":"f19477","CO032":"614ab4","CO143":"c2a766","AN054":"cc9fc2","CO130":"12d576","AN056":"9c4b4e","CO041":"448251","AR058":"80fcd7","PU021":"12b1ac","CO100":"c30d0b","PU082":"7b36a8","PU065":"8bd3d7","AR113":"fa0e9c","PU030":"f9345b","CO028":"e54b94","CO082":"623307","AN031":"a8551d","PU091":"b022ef","PU079":"1abc99","AR046":"1f8d08","PU125":"8799fd","CO123":"d0c373","AN020":"44bd0e","PU064":"559de7","AR002":"db7a86","CO077":"64d2fb","CO122":"973953","PU008":"fc656e","CO186":"3aec0a","AN007":"aff00d","PU077":"b7ed00","CO185":"e69ce8","PU012":"436fb6","PU109":"822c75","PU013":"b3db65","CO067":"1c2585","PU045":"861ff4","AR083":"0093a4","AR033":"36fd23","CO136":"20c4d9","AR074":"e2d591","CO036":"ae5833","AN014":"3ce6e8","AR017":"be5677","CO046":"a390fe","CO025":"0c1420","AR055":"5430dd","CO085":"de97ba","CO999":"6e0faf","AR077":"1907d6","CO014":"77b13d","PU123":"b41c62","CO117":"025f94","CO084":"34cbbc","AN057":"eaa33a","PU053":"4a6c1f","CO038":"ea115c","AR023":"d8c161","AN011":"16e90b","PU028":"35a78b","CO023":"baa4f1","CO024":"2d78cf","PU018":"52e937","AR062":"ff2541","CO161":"257ff2","CO144":"af3d68","CO030":"cc991b","AR007":"3f3d71","CO152":"0b18a6","CO119":"53f9af","AR043":"52c1f4","AN063":"c1a599","AR067":"097f29","AR049":"502505","PU063":"ebbe3e","AR021":"baf183","AR036":"fc2c53","CO019":"c34fd5","CO105":"9edb16","AR054":"714015","CO092":"ac4b26","AR096":"82cdfc","AR047":"22939e","AN008":"d0c823","PU093":"01b067","PU104":"464d88","AR068":"eeb404","CO022":"e5001c","PU035":"618d1b","CO011":"0f0e9b","AR041":"624bb8","CO104":"fe2df2","AN005":"8bee1c","PU066":"fff615","CO157":"7ffdac","CO193":"aa8c5a","AN049":"c9d41e","AR024":"10db56","CO139":"88dbdf","CO093":"4723fb","PU051":"1097d3","PU002":"c27006","AN019":"d44237","AR095":"afa875","PU050":"596b6e","AR115":"89990b","CO156":"eb2832","PU052":"aa6c51","CO009":"a3b68b","CO017":"3aefe6","PU073":"91d86c","CO155":"4ad7c4","CO015":"c49b86","PU007":"6fb989","AR040":"f1f14d","PU049":"737fb7","AR005":"d3cb3f","CO110":"65723c","PU024":"7bf423","PU076":"a05dbf","AN024":"a71ccb","AR059":"7c073e","CO199":"8c3277","PU106":"a5680e","PU043":"780c17","AR071":"d34bd1","CO134":"d17475","AR029":"a1c74d","AR056":"ced2ff","CO003":"21ffaa","AN065":"0764d9","CO094":"bb9bfd","CO083":"cf3c94","AR048":"6ce663","CO061":"8edf31","AR084":"4b3da6","PU056":"aacfe3","AR081":"c12b85","AN046":"1a685a","CO147":"e15728","CO035":"a0e880","AN050":"4473d2","PU069":"25708a","PU090":"8d5039","PU031":"825489","CO109":"7bf4b0","AN030":"a80064","PU060":"1604d7","CO150":"0a0897","PU122":"3a71e5","CO063":"7c48c8","CO051":"cb800c","PU068":"638b06","AR109":"5deb61","AR030":"28eb91","CO154":"f1c098","PU042":"08fffa","PU087":"6ffd28","AR094":"d34c77","INS130":"e87a72","AR001":"d3ae77","CO127":"292fbb","AN003":"d4e548","CO101":"50e850","AN038":"a92a6f","PU044":"b8ce9e","CO058":"a8fef3","CO173":"61f021","CO072":"64485b","PU094":"645c74","AR060":"624707","CO140":"24a3de","AR031":"0cef9c","AN016":"72e83d","CO004":"9c9697","CO126":"ee18a3","PU083":"65dd8b","AR051":"d60c1f","CO138":"110cce","PU048":"a83960","PU025":"9c2ed5","AR092":"1a2fd7","PU038":"640c29","AR111":"08b848","CO090":"c1addb","CO182":"56df4a","PU112":"360766","AN037":"4c12c5","CO148":"a312f2","CO049":"8900e5","AR016":"29624c","AR039":"8c4921","PU070":"d302e3","CO081":"6b433a","AN055":"401b4c","CO001":"ceb919","AR034":"d0bff9","PU086":"5fca78","AN059":"5537c1","PU027":"d1b668","PU040":"c39cad","PU103":"7c2c37","CO133":"f6c367","CO060":"6e0592","PU095":"426b50","CO115":"7b2f66","AR006":"bbc742","AR053":"c8499d","AN021":"ccf01f","AN053":"6a35e5","AN068":"6ba69d","CO170":"00103a","AN028":"b4b968","PU096":"e53464","AR010":"b90059","AR026":"dd3d13","CO116":"871ead","CO065":"b2f021","CO112":"1f2524","AR110":"9afec9","CO042":"7fe84f","PU062":"150b44","PU010":"9763e4","CO006":"420b13","CO013":"8824cd","PU101":"392cf5","AR032":"f4d92d","AN025":"712b88","AN013":"630062","AR064":"c4c6d8","PU039":"869c9d","AN062":"524eda","CO201":"9b9b5c","CO202":"b1c247","CO203":"8d2563","CO204":"131aa4","CO205":"a48adf","PU132":"86440b","PU133":"fabc6b","PU135":"6c94af","PU134":"bedd6e","PU131":"cb1865","CO206":"1f8d9e","CO207":"84f9ff","CO208":"164c25","CO212":"f41449","CO209":"71753f","CO210":"c0e425","CO211":"43f282"};
 // Nuevos ingresos: van primero en "Lo más nuevo" con etiqueta "Nuevo ingreso" durante DIAS_NUEVO días.
 const NUEVO={"PU123":"2026-11-02","PU132":"2026-11-02","PU133":"2026-11-02","PU085":"2026-11-02","PU135":"2026-11-02","PU134":"2026-11-02","PU087":"2026-11-02","PU131":"2026-11-02","AR054":"2026-11-02","AR024":"2026-11-02","AR001":"2026-11-02","CO206":"2026-11-02","CO039":"2026-11-02","CO207":"2026-11-02","CO191":"2026-11-02","CO047":"2026-11-02","CO208":"2026-11-02","CO026":"2026-11-02","CO212":"2026-11-02","CO209":"2026-11-02","CO210":"2026-11-02","CO211":"2026-11-02","CO013":"2026-11-02","CO203":"2026-10-28","CO204":"2026-10-28","CO205":"2026-10-28","CO199":"2026-10-28","CO202":"2026-10-26","AR071":"2026-10-26","AR072":"2026-10-26","CO201":"2026-10-26","CO200":"2026-10-26","PU128":"2026-10-26"}; // SKU:fecha de ingreso (AAAA-MM-DD)
 const DIAS_NUEVO=7; // la etiqueta dura 7 días completos desde el día de ingreso
